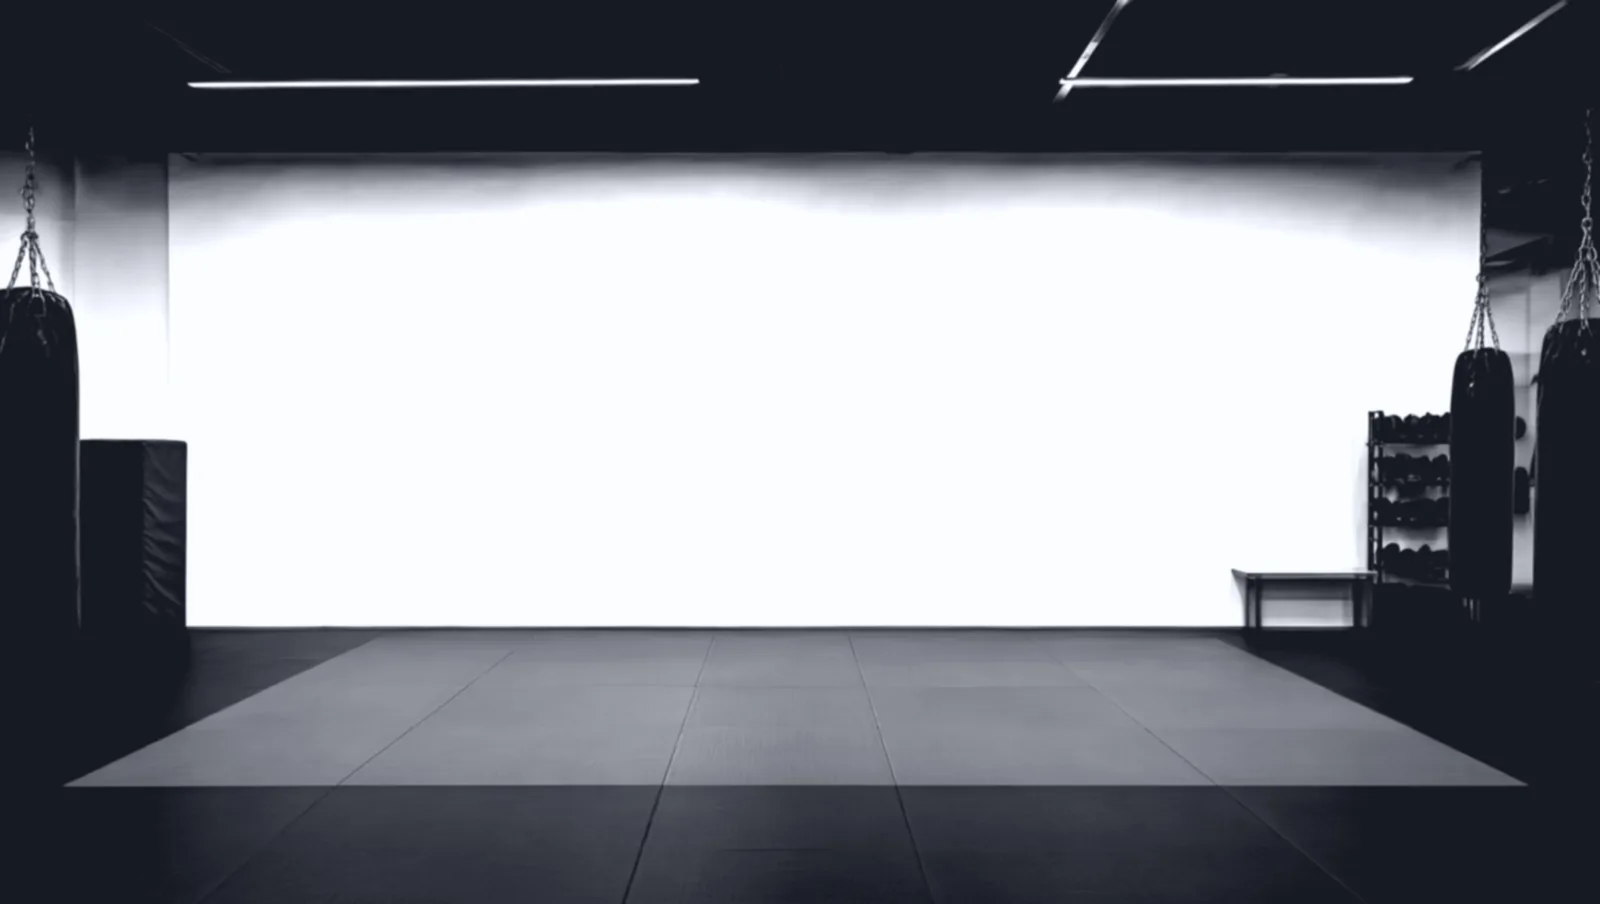
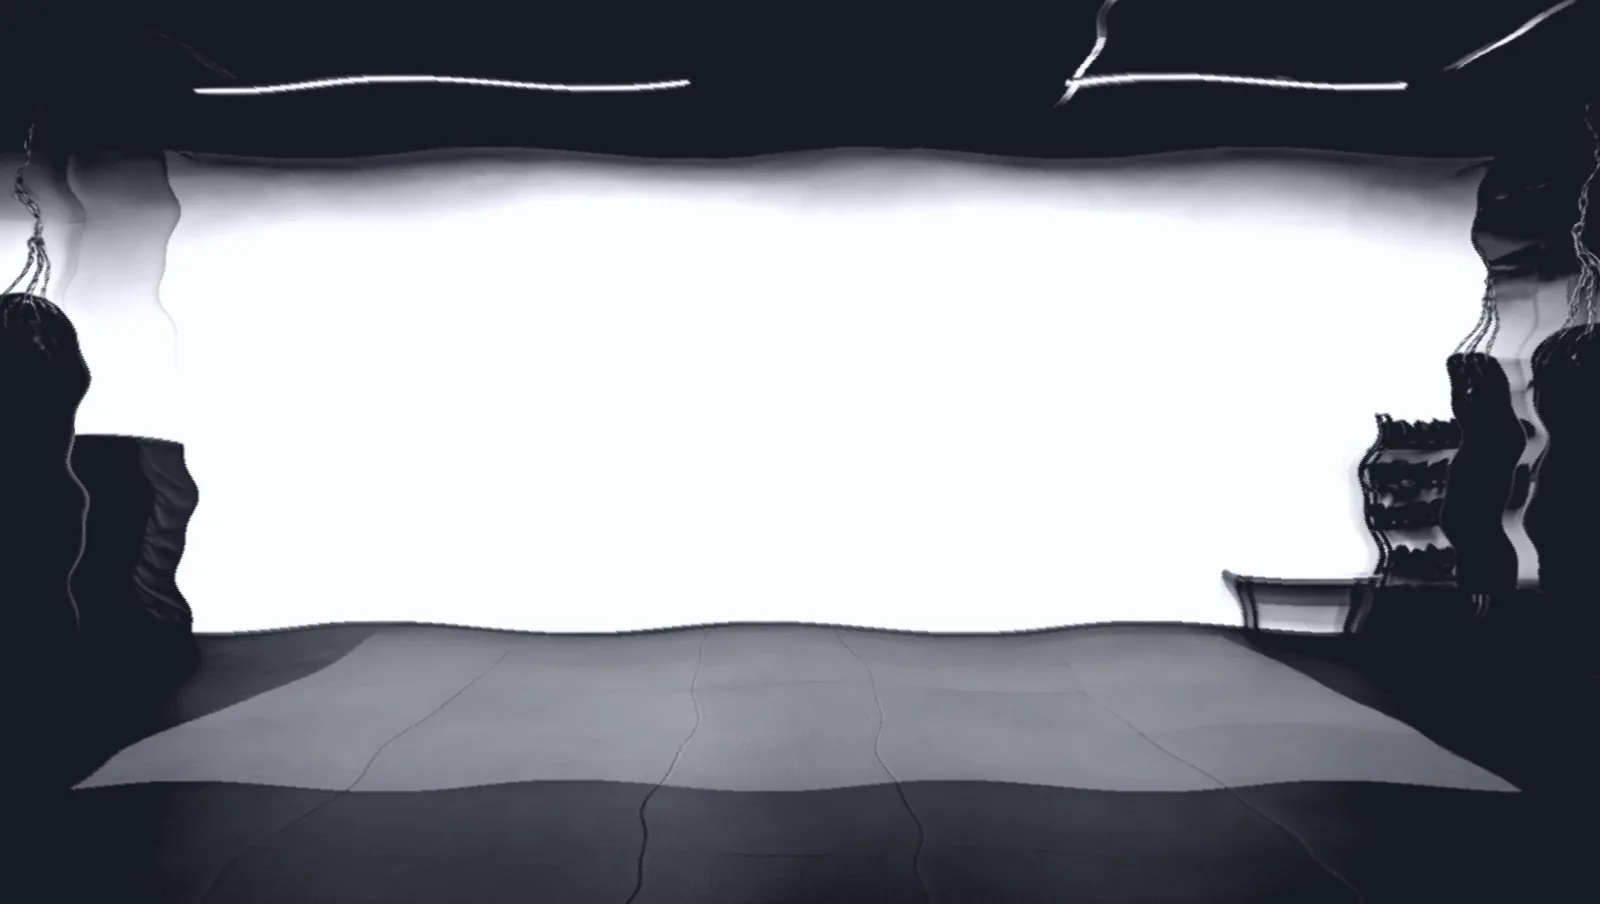
Оптимизация анимаций: обложка «только слово» стартует раньше и легче, волны на стене запечены в картинку, бесконечные анимации на паузе вне экрана

diff --git a/as.js b/as.js
@@ -372,17 +372,17 @@
   var ioCover = new IntersectionObserver(function (es) {
     es.forEach(function (e) {
       var c = e.target;
-      if (e.intersectionRatio >= .4 && !c.classList.contains('in')) { if (c.prep) c.prep(); void c.offsetWidth; c.classList.add('in'); }
+      if (e.intersectionRatio >= .2 && !c.classList.contains('in')) { if (c.prep) c.prep(); void c.offsetWidth; c.classList.add('in'); }
       else if (!e.isIntersecting) c.classList.remove('in');
     });
-  }, { threshold: [0, .4, .6] });
+  }, { threshold: [0, .2, .4] });
   $$('.as-cover.c2,.as-cover.c3').forEach(function (el) { ioCover.observe(el); });
   $$('.as-cover.c3 .mark img').forEach(function (img) {
     // просвет буквы «о» в «спорта»: центр 41,35 % × 71,2 %, ширина 9,9 % знака
     function prep() {
       var ew = img.clientWidth, eh = img.clientHeight, k = (img.naturalWidth / img.naturalHeight) || 1.947, cw = Math.min(ew, eh * k), ch = cw / k;
       img.style.transformOrigin = ((ew - cw) / 2 + cw * .4135).toFixed(1) + 'px ' + ((eh - ch) / 2 + ch * .712).toFixed(1) + 'px';
-      img.style.setProperty('--s', Math.min(60, Math.max(innerWidth, innerHeight) * 1.4 / (cw * .099)).toFixed(1));
+      img.style.setProperty('--s', Math.min(innerWidth < 700 ? 6 : 9, Math.max(innerWidth, innerHeight) * 1.2 / (cw * .099)).toFixed(1));
     }
     img.closest('.as-cover').prep = prep;
     if (img.complete) prep(); else img.addEventListener('load', prep);
@@ -588,9 +588,8 @@
         '<linearGradient id="mtChrome" gradientUnits="userSpaceOnUse" x1="760" y1="420" x2="1260" y2="900" spreadMethod="reflect">' +
         [[0, '#2e3238'], [.14, '#f4f6f9'], [.26, '#6f767f'], [.4, '#ffffff'], [.5, '#a9b0b9'], [.64, '#23272c'], [.8, '#e6eaef'], [1, '#4a5058']].map(function (s) { return '<stop offset="' + s[0] + '" stop-color="' + s[1] + '"/>'; }).join('') + '</linearGradient>' +
         '<pattern id="mtRoom" patternUnits="userSpaceOnUse" x="700" y="-60" width="1300" height="734"><image href="' + IMG + 'c2-reflect.webp" width="1300" height="734" preserveAspectRatio="none"/></pattern>' +
-        '<filter id="mtWave" x=".29" y=".29" width=".44" height=".25"><feTurbulence type="fractalNoise" baseFrequency=".0016 .011" numOctaves="2" seed="7" result="n"/><feDisplacementMap in="SourceGraphic" in2="n" scale="70" xChannelSelector="R" yChannelSelector="G"/></filter>' +
         '<mask id="mtMask" maskUnits="userSpaceOnUse" x="0" y="0" width="2720" height="1536"><g fill="#fff">' + paths + '</g></mask></defs>' +
-        '<g mask="url(#mtMask)"><rect x="0" y="0" width="2720" height="1536" fill="url(#mtRoom)" filter="url(#mtWave)"/><rect class="sheen" x="0" y="0" width="2720" height="1536" fill="url(#mtChrome)"/></g></svg>');
+        '<g mask="url(#mtMask)"><rect x="0" y="0" width="2720" height="1536" fill="url(#mtRoom)"/><rect class="sheen" x="0" y="0" width="2720" height="1536" fill="url(#mtChrome)"/></g></svg>');
       var grad = $('#mtChrome', box), room = $('#mtRoom', box), cur = 0, goal = 0, raf = 0, seen = false;
       function set(p) { goal = Math.max(-1.2, Math.min(1.2, p)); }
       // отражение зала плывет само (легкая волна) и быстро догоняет курсор, прокрутку или наклон телефона
@@ -641,6 +640,10 @@
       tilt();
     }
   });
+
+  // бесконечные анимации играют только на экране
+  var ioLoop = new IntersectionObserver(function (es) { es.forEach(function (e) { e.target.classList.toggle('off', !e.isIntersecting); }); }, { rootMargin: '100px 0px' });
+  $$('.as-wall,.as-mirror,.as-keys,.as-3d,.as-pal').forEach(function (el) { el.classList.add('off'); ioLoop.observe(el); });
 
   // постеры в зале
   $$('.as-posters').forEach(function (box) {

diff --git a/as.css b/as.css
@@ -472,8 +472,8 @@
 .as-cover.c2 .foot .as-lead{opacity:0;transform:translateY(16px);transition:opacity .9s var(--ease) .9s,transform 1s var(--ease) .9s}
 .as-cover.c2.in .foot .as-lead{opacity:1;transform:none}
 .as-cover.c2.in .foot .as-lead:nth-of-type(2){transition-delay:1.05s}
-.as-cover.c3 .mark img{transform:scale(var(--s,30));will-change:transform}
-.as-cover.c3.in .mark img{transform:none;transition:transform 2.4s cubic-bezier(.75,0,.15,1) .2s}
+.as-cover.c3 .mark img{transform:scale(var(--s,8))}
+.as-cover.c3.in .mark img{transform:none;transition:transform 1.7s cubic-bezier(.7,0,.2,1)}
 .as-cover.c3{overflow:hidden}
 @media (prefers-reduced-motion:reduce){.as-cover .mark img,.as-cover .foot .as-lead{clip-path:none!important;transform:none!important;filter:none!important;opacity:1!important}}
 /* брелоки: покачивание и блик серебра */
@@ -514,3 +514,4 @@
 /* принты на телефоне и планшете: по три в ряд шахматкой, шесть штук */
 @media (max-width:1000px){.as-prints{grid-template-columns:repeat(3,minmax(0,1fr))!important}.as-prints>:nth-child(6),.as-prints>:nth-child(8){display:none}}
 @media (min-width:641px){#c2-award .as-h2{white-space:nowrap}}
+.off,.off *{animation-play-state:paused!important}
